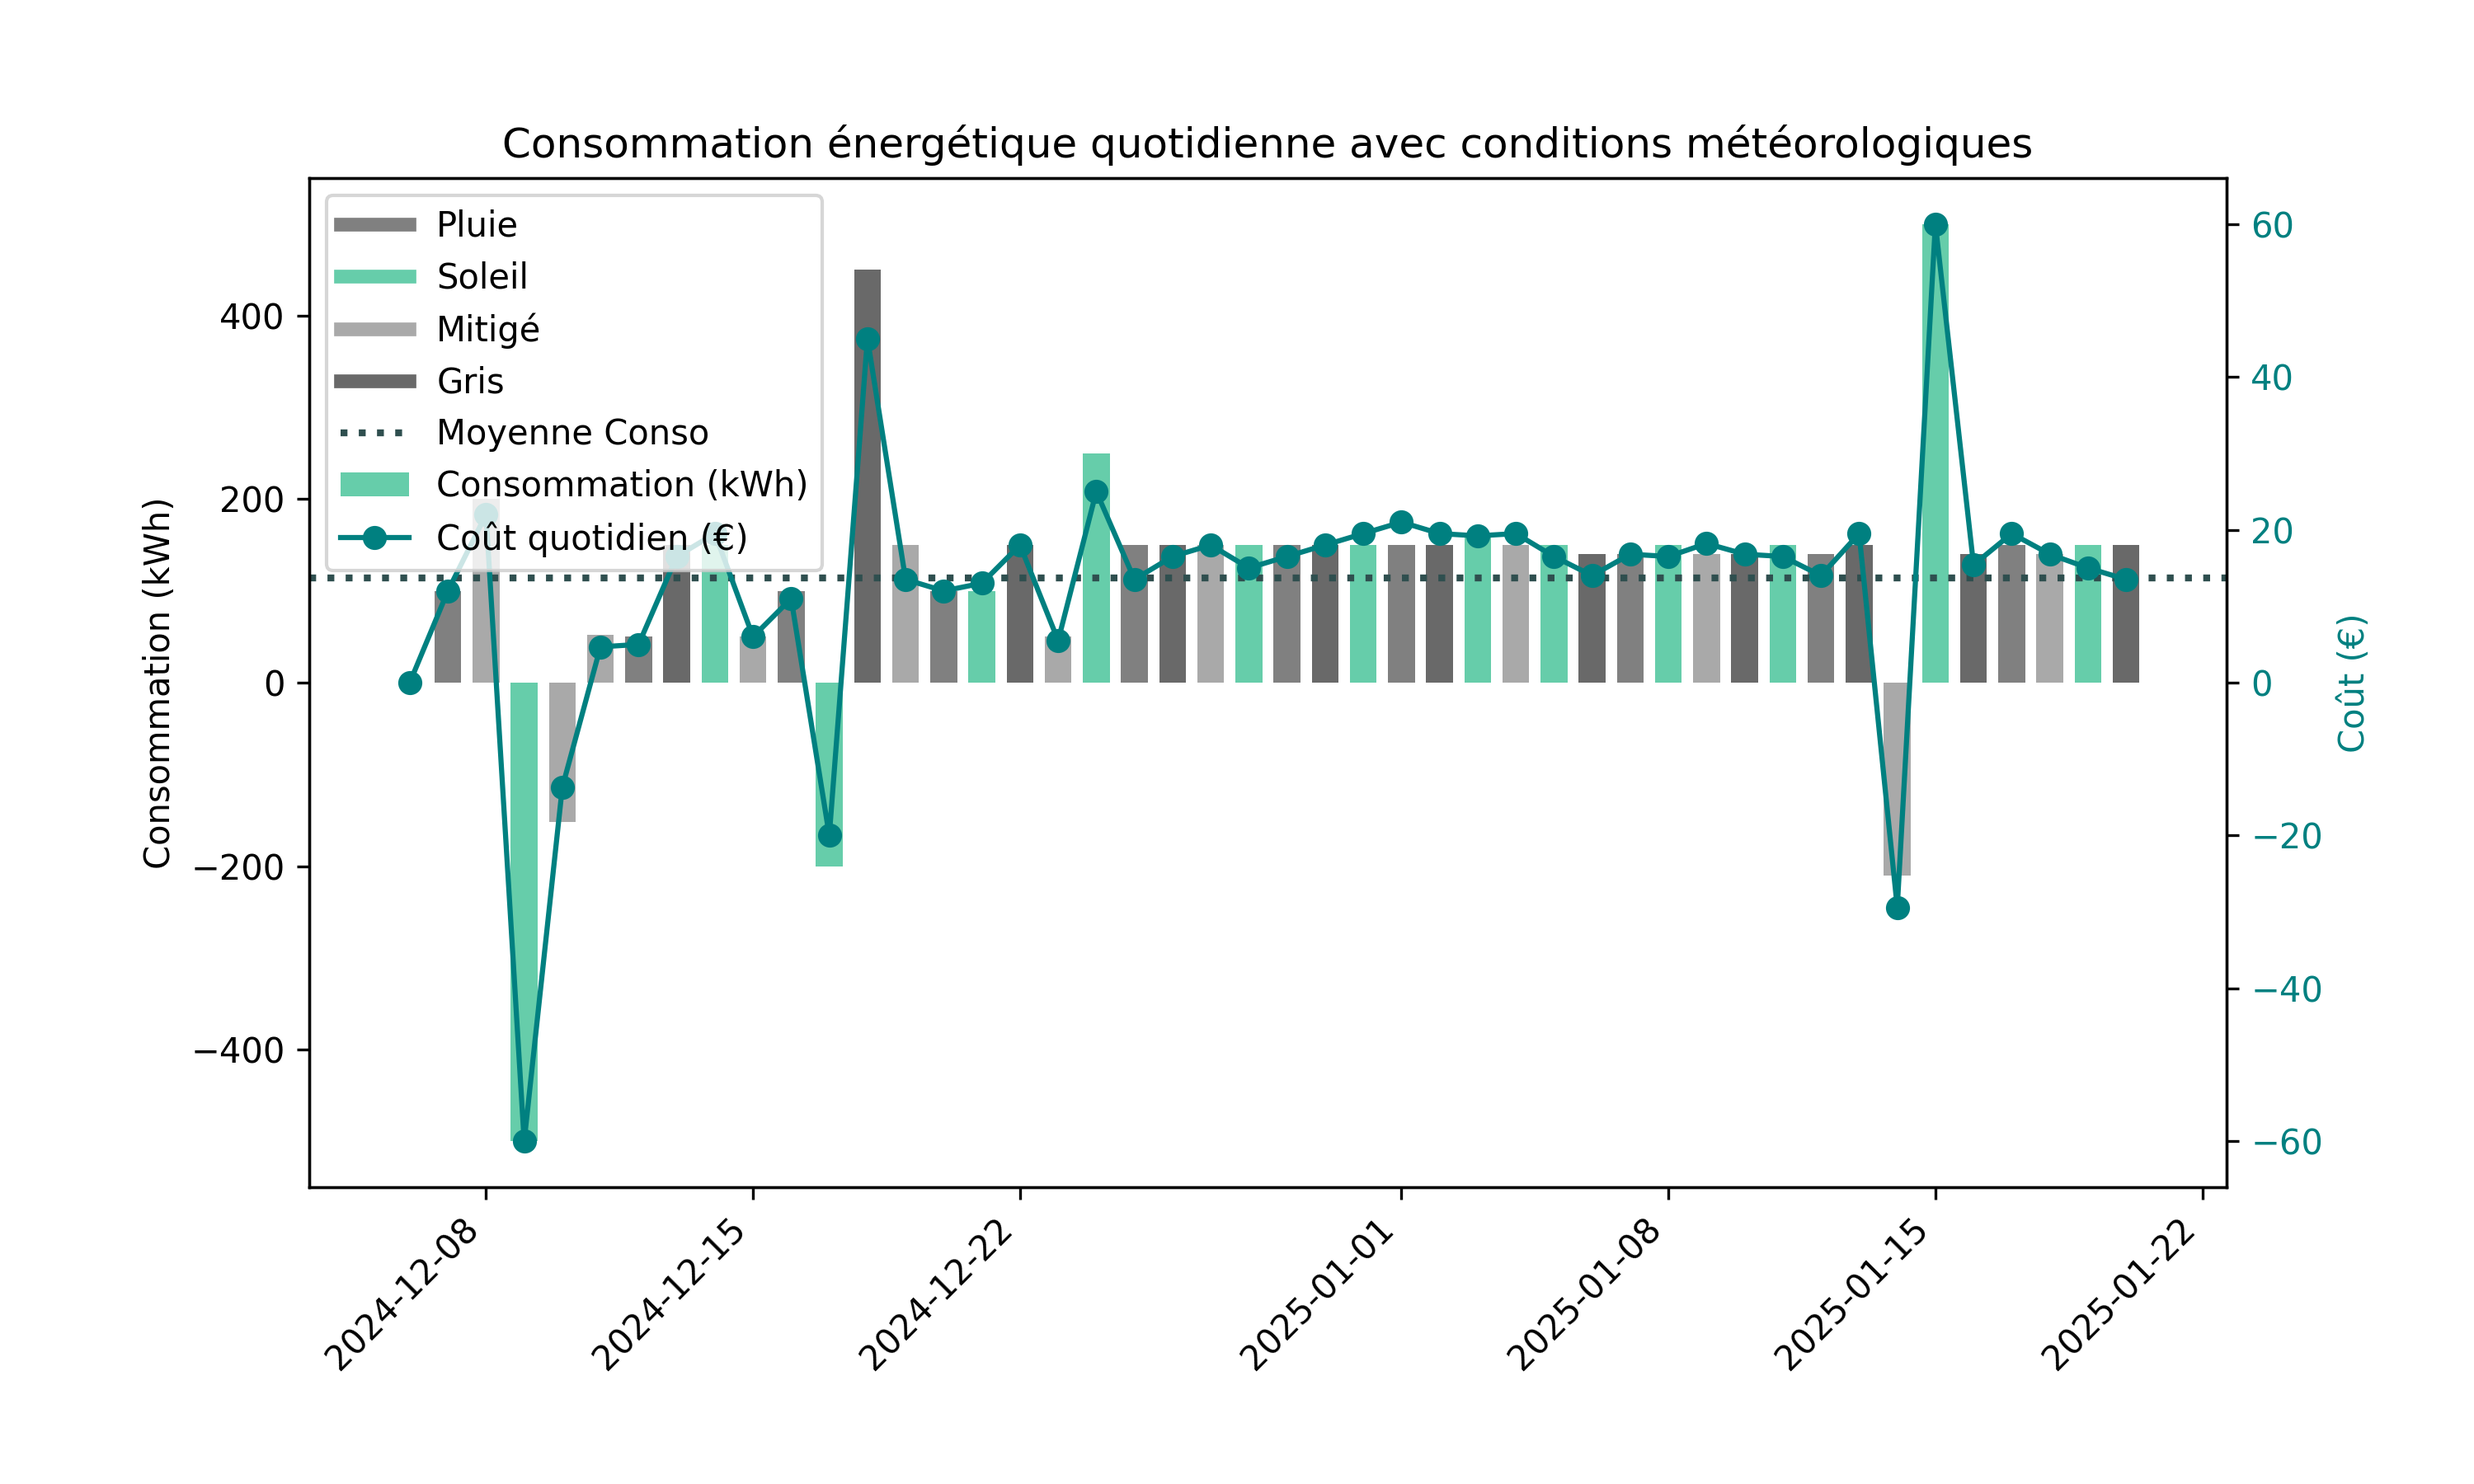
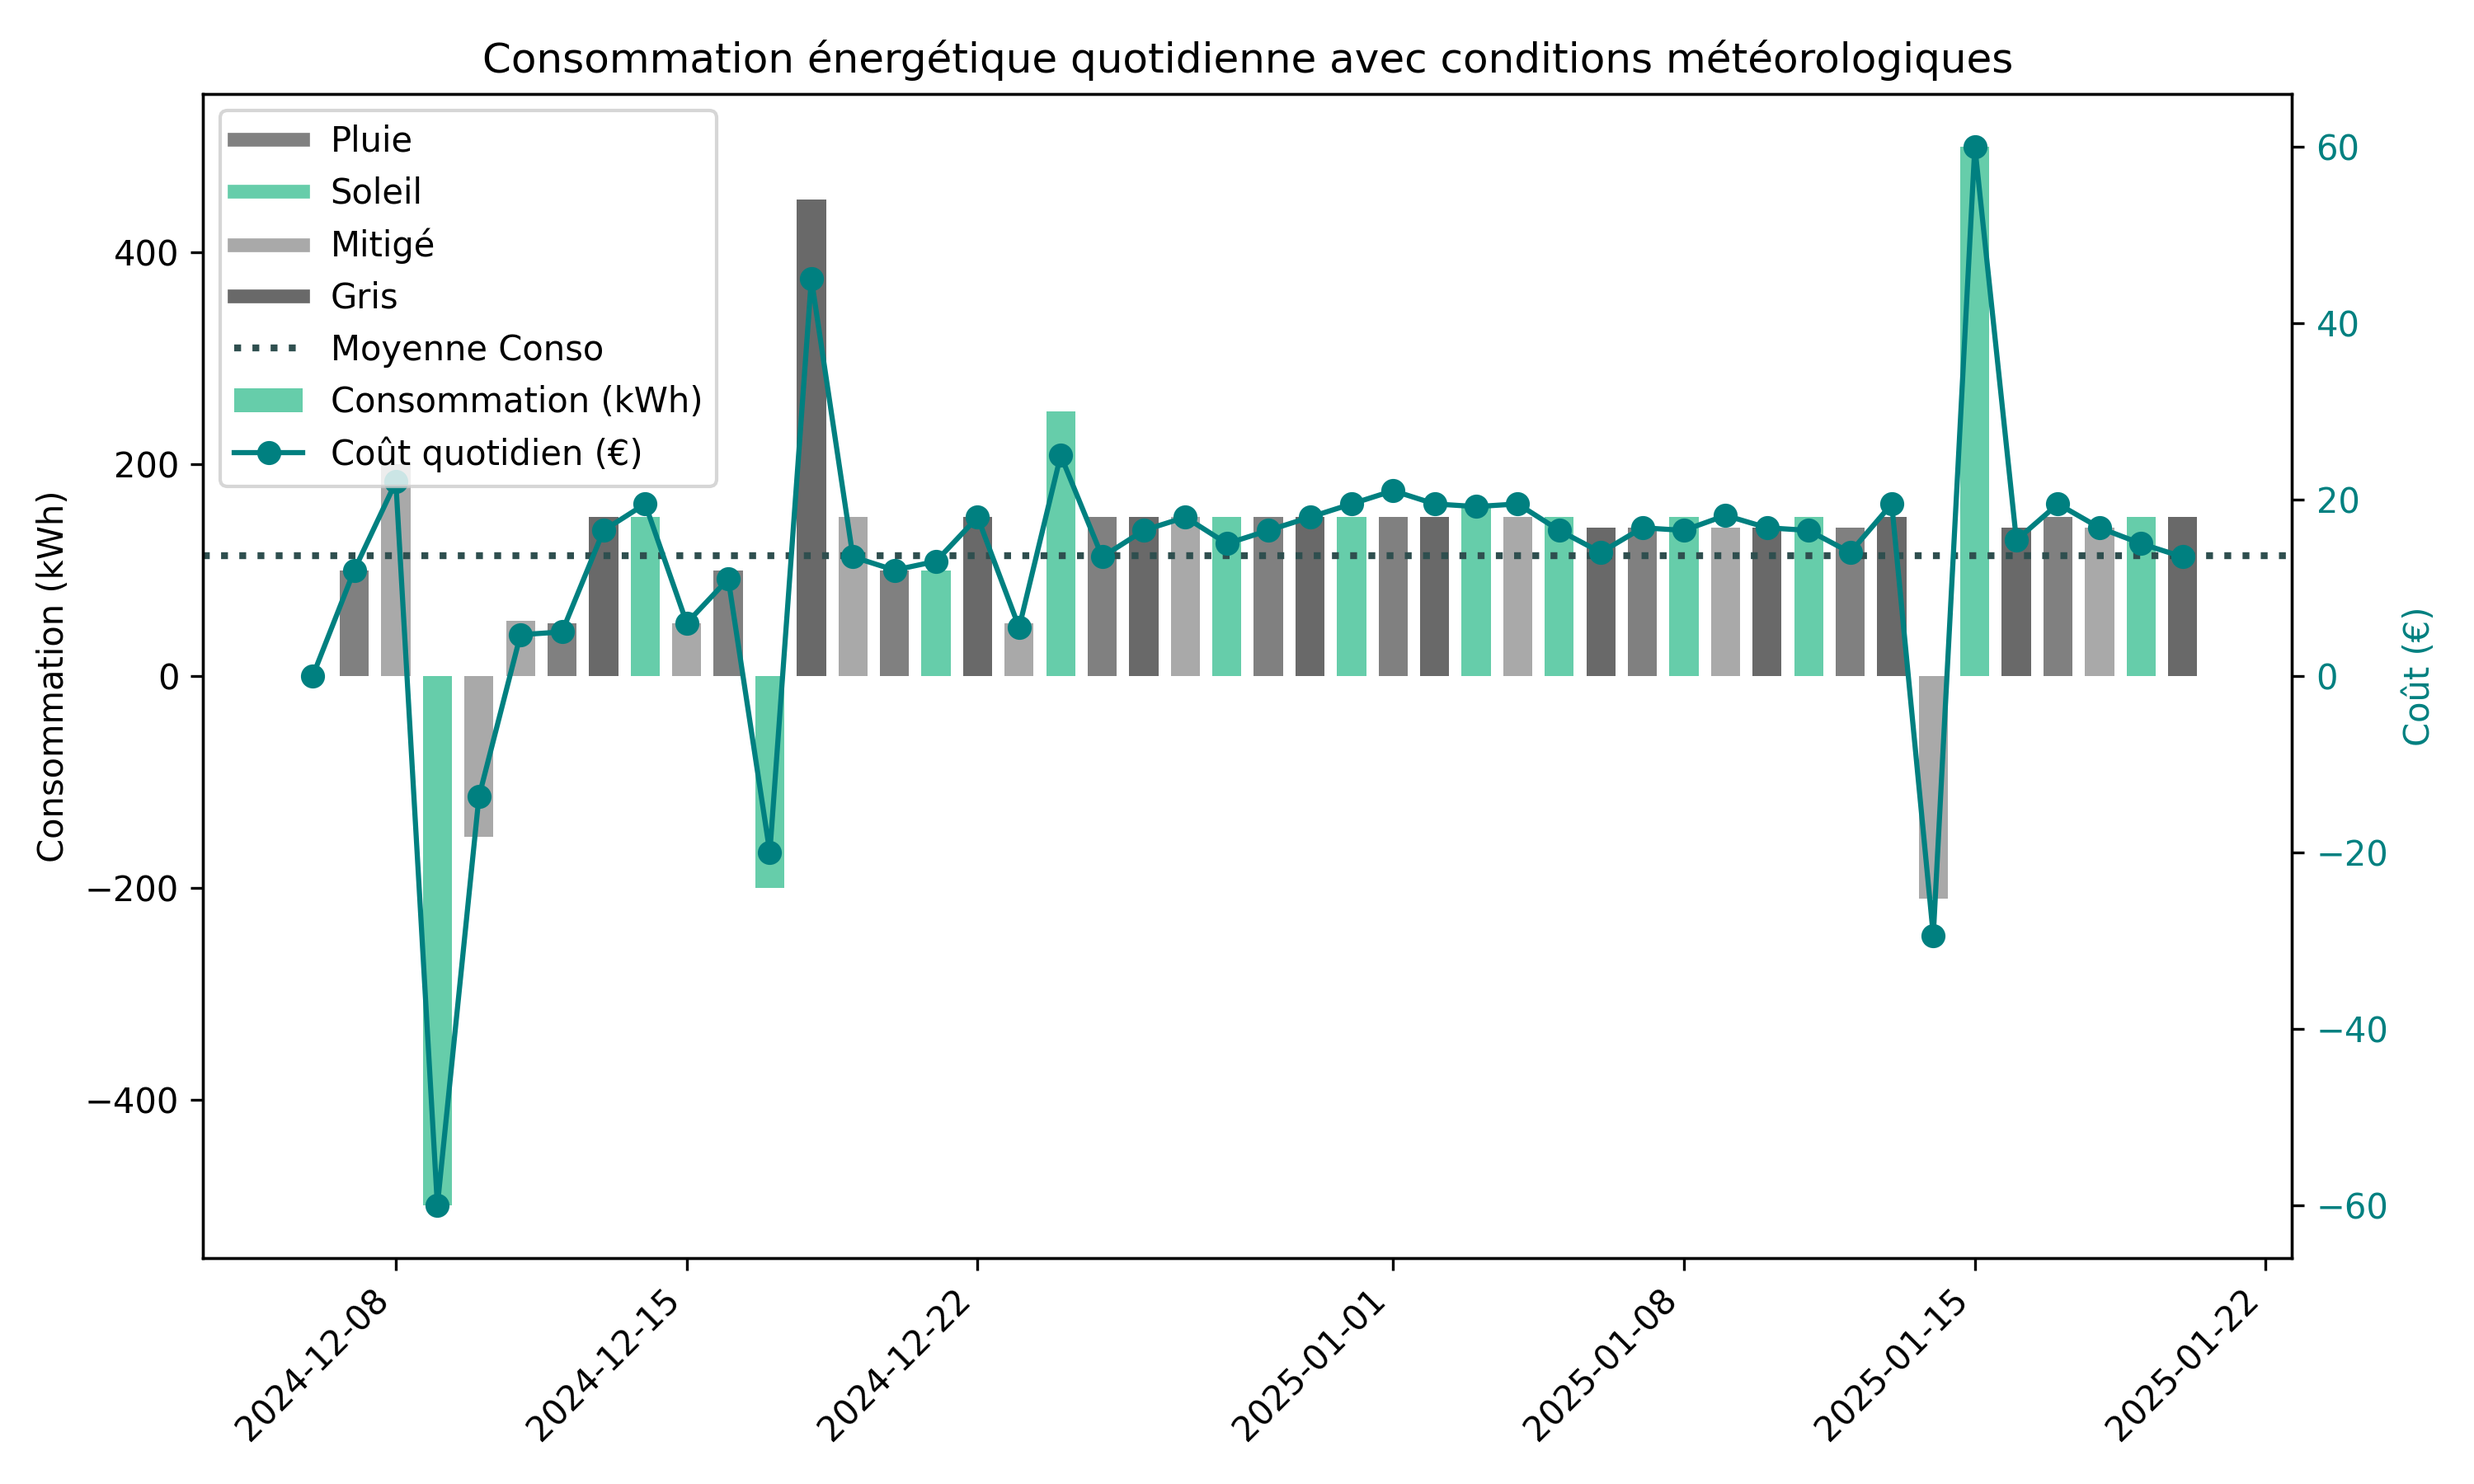
Update readme and image

diff --git a/src/visualization/visualization.py b/src/visualization/visualization.py
@@ -75,11 +75,13 @@ def plot_data(data):
             break
         current_dir = parent_dir
 
-    images_dir = os.path.join(current_dir, "images")
-    #os.makedirs(images_dir, exist_ok=True)
+    
 
-    plt.savefig(os.path.join(images_dir, "plot_static.png"), dpi=300)
+    images_dir = os.path.join(current_dir, "images")
+    os.makedirs(images_dir, exist_ok=True)
+
     plt.tight_layout()
+    plt.savefig(os.path.join(images_dir, "plot_static.png"), dpi=300)
     plt.show()  # Fenêtre interactive à fermer manuellement
 
 

diff --git a/README.md b/README.md
@@ -34,26 +34,18 @@ Structure du projet :
 
 ```
 
-
 ## 🔍 Fonctionnalités principales
 
-📥 Chargement intelligent des données CSV
+- 📥 Chargement intelligent des données CSV
+- 📈 Graphiques :
+  - Statique (Matplotlib)
+  - Interactif (Plotly, avec filtres météo)
+- 🧮 Calculs statistiques :
+  - Moyenne / max / min consommation
+  - Coût total
+- 🧠 Notebook d’analyse complémentaire
+- ✅ Interface ligne de commande pour exécuter les étapes
 
-📈 Graphiques :
-
-    Statique (Matplotlib)
-
-    Interactif (Plotly, avec filtres météo)
-
-🧮 Calculs statistiques :
-
-    Moyenne / max / min consommation
-
-    Coût total
-
-🧠 Notebook d’analyse complémentaire
-
-✅ Interface ligne de commande pour exécuter les étapes
 
 ## ▶ Utilisation
 
@@ -76,13 +68,10 @@ Voici un exemple de graphique généré automatiquement par le projet :
 
 ## 🧪 Notebook
 
-Le fichier analyse_energie.ipynb permet une exploration interactive :
-
-    Statistiques descriptives
-
-    Appareils les plus énergivores
-
-    Visualisation rapide des données
+- Le fichier analyse_energie.ipynb permet une exploration interactive :
+    - Statistiques descriptives
+    - Appareils les plus énergivores
+    - Visualisation rapide des données
 
 ## 📦 Installation
 Créer un environnement virtuel et installer les dépendances :
